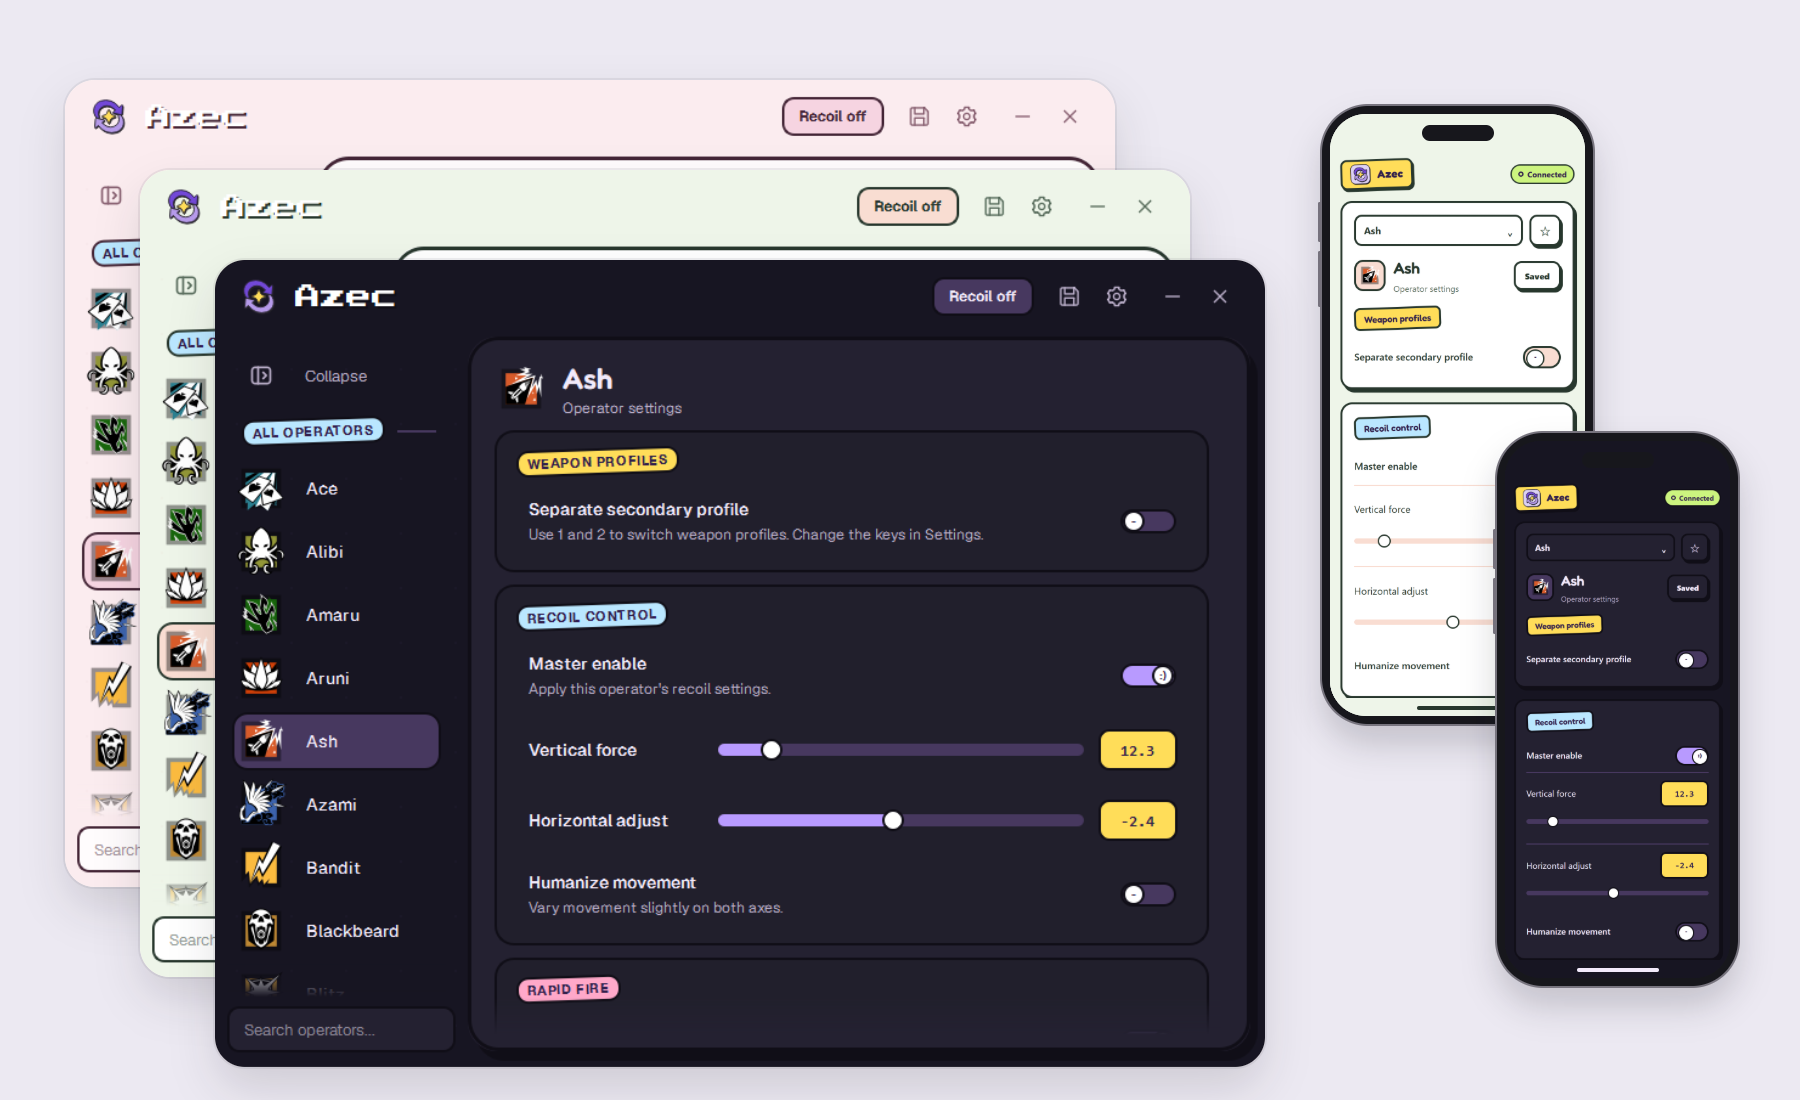
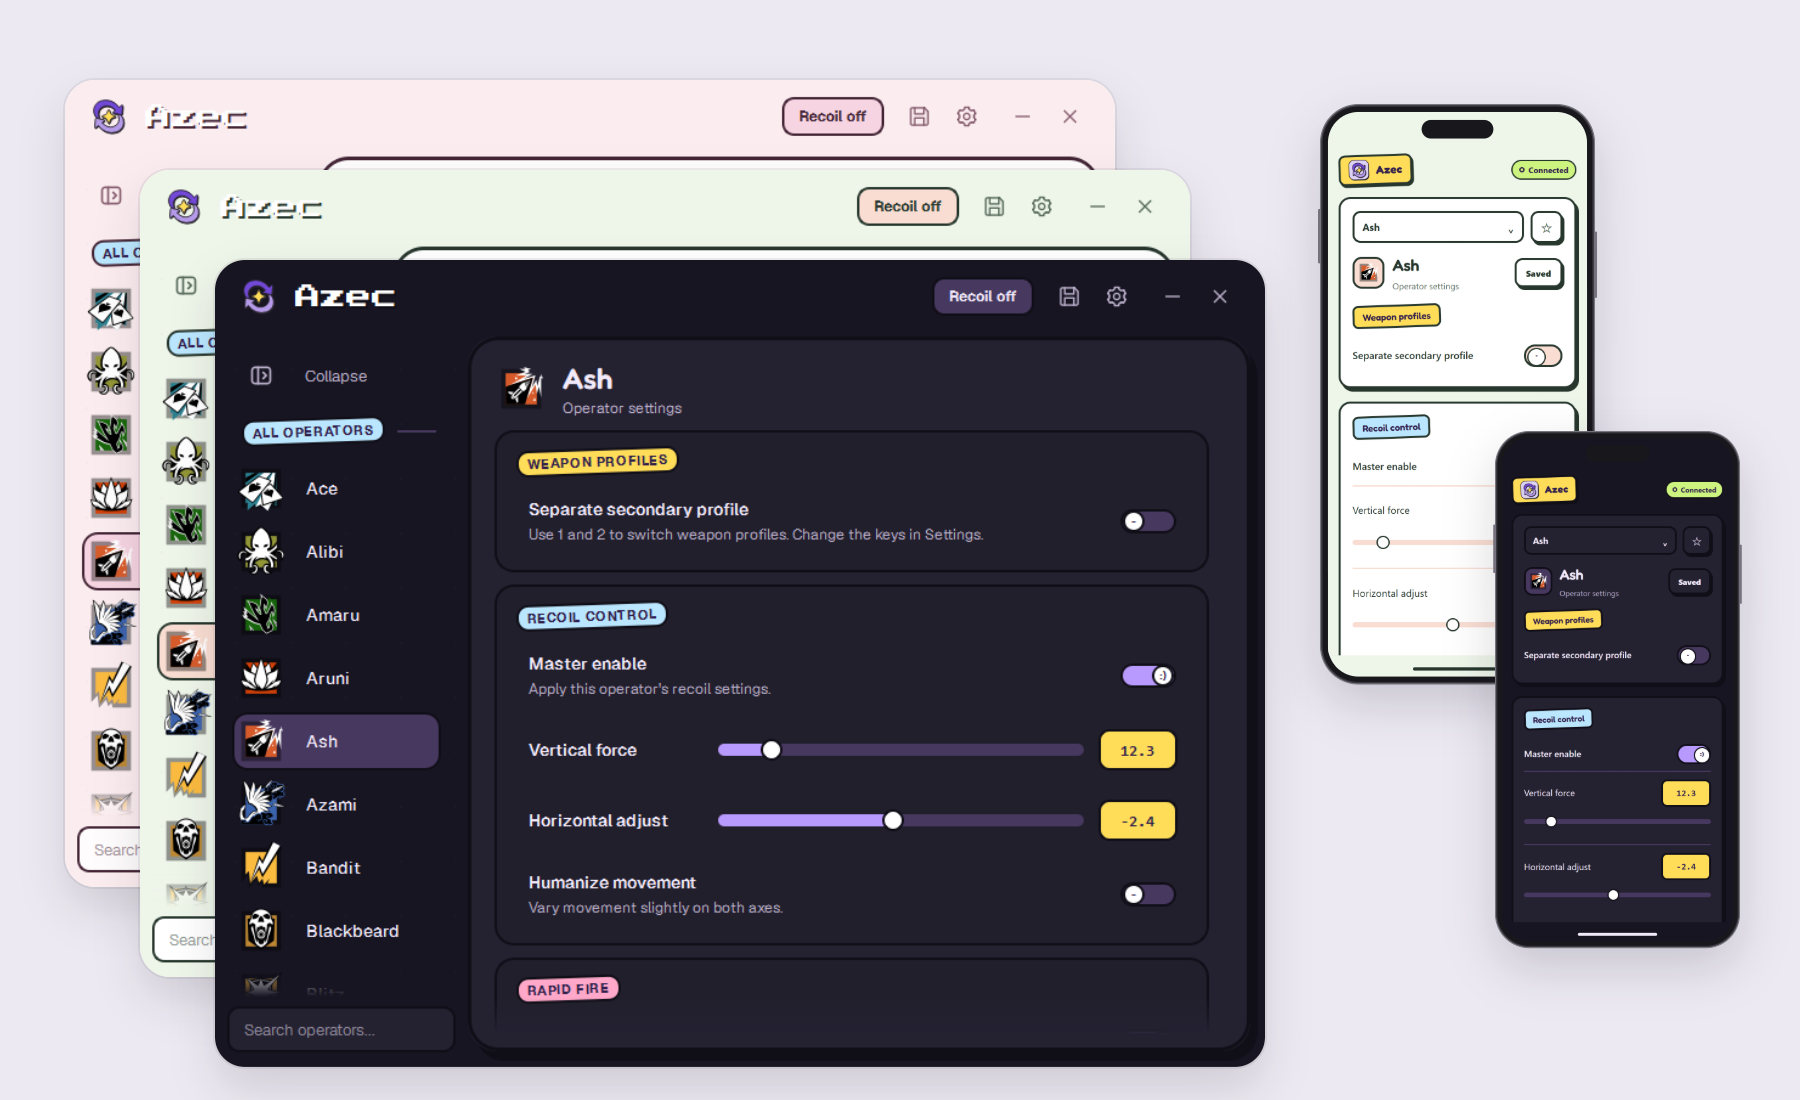
Correct phone proportions in README mockups

diff --git a/docs/showcase.html b/docs/showcase.html
@@ -1,3 +1,14 @@
 <!doctype html><html><head><meta charset="utf-8"><title>The original cascade</title><style>
 *{box-sizing:border-box}html,body{margin:0;background:transparent}.scene{width:1800px;height:1100px;position:relative;overflow:hidden;isolation:isolate;background:#F2EFE9}.desktop,.app,.phone{position:absolute}.desktop,.app{filter:drop-shadow(0 22px 22px #18131c22)}.bezel{padding:12px;background:#19191E;border:2px solid #58565D;border-radius:32px}.viewport{position:relative;overflow:hidden;background:#FFFAEE;border-radius:20px}.viewport img{position:absolute;inset:0;width:100%;height:100%;display:block}.stem{width:160px;height:55px;margin:0 auto;background:#B9B7BE;clip-path:polygon(34% 0,66% 0,90% 100%,10% 100%)}.foot{width:310px;height:12px;background:#AAA7B0;border-radius:10px;margin:auto;box-shadow:0 7px 12px #17131e14}.app{border-radius:30px;overflow:hidden;box-shadow:0 0 0 2px #39303D14}.app .viewport{border-radius:30px}.phone{padding:8px;border:2px solid #77747E;border-radius:48px;background:#17171C;box-shadow:0 20px 32px #0c09192b;transform-origin:center 70%}.phone:before,.phone:after{content:'';position:absolute;width:3px;border-radius:3px;background:#76727D;left:-4px;top:96px;height:40px}.phone:after{top:145px;height:56px}.display{padding:32px 0 18px;position:relative;border-radius:36px;overflow:hidden;background:#FFFAEE}.phone .viewport{border-radius:0}.island{position:absolute;top:11px;left:50%;transform:translateX(-50%);width:72px;height:16px;border-radius:12px;background:#17171C;z-index:30}.home{position:absolute;bottom:6px;left:50%;transform:translateX(-50%);width:82px;height:4px;background:#31204C;border-radius:4px;z-index:30}.orbit{position:absolute;border:2px solid #51495F45;border-radius:50%;width:980px;height:980px;left:1010px;top:80px;transform:rotate(-20deg)}.orbit.small{width:750px;height:750px;left:1125px;top:195px;border-color:#51495F25}.wall-card{position:absolute;width:548px;height:490px;border:1px solid #31204C16;border-radius:28px;overflow:hidden}.wall-card .desktop{filter:drop-shadow(0 12px 12px #18131c20)}.wall-card .bezel{padding:7px;border-radius:17px}.wall-card .viewport{border-radius:10px}.wall-card .stem{width:90px;height:31px}.wall-card .foot{width:160px;height:7px}.wall-card .phone{padding:4px;border-width:2px;border-radius:24px;box-shadow:0 12px 20px #14101e30}.wall-card .display{padding:18px 0 12px;border-radius:17px}.wall-card .island{top:6px;width:36px;height:8px}.wall-card .home{bottom:4px;width:40px;height:2px}.wall-card .phone:before,.wall-card .phone:after{display:none}
-</style></head><body><main class="scene" style="background:#ECE9F2"><div class="app" style="left:65px;top:80px;width:1050px;z-index:2"><div class="viewport" style="height:806.944px"><img src="showcase-assets/desktop/rose.png" alt="rose" style="clip-path:polygon(-30% 0%,130% 0%,130% 100%,-30% 100%)"></div></div><div class="app" style="left:140px;top:170px;width:1050px;z-index:3"><div class="viewport" style="height:806.944px"><img src="showcase-assets/desktop/pistachio.png" alt="pistachio" style="clip-path:polygon(-30% 0%,130% 0%,130% 100%,-30% 100%)"></div></div><div class="app" style="left:215px;top:260px;width:1050px;z-index:4"><div class="viewport" style="height:806.944px"><img src="showcase-assets/desktop/midnight.png" alt="midnight" style="clip-path:polygon(-30% 0%,130% 0%,130% 100%,-30% 100%)"></div></div><div class="phone" style="left:1320px;top:104px;width:275px;transform:rotate(0deg);z-index:5"><div class="display" style="height:601.846px;padding:0;background:#EEF5E9"><div style="position:absolute;inset:0;background:#EEF5E9;clip-path:polygon(-30% 0%,130% 0%,130% 100%,-30% 100%)"><img src="showcase-assets/phones/pistachio.png" alt="pistachio" style="position:absolute;left:0;top:32px;width:100%;height:551.846px"></div><div class="island"></div><div class="home" style="background:#27372D"></div></div></div><div class="phone" style="left:1495px;top:431px;width:245px;transform:rotate(0deg);z-index:6"><div class="display" style="height:536.923px;padding:0;background:#171522"><div style="position:absolute;inset:0;background:#171522;clip-path:polygon(-30% 0%,130% 0%,130% 100%,-30% 100%)"><img src="showcase-assets/phones/midnight.png" alt="midnight" style="position:absolute;left:0;top:32px;width:100%;height:486.923px"></div><div class="island"></div><div class="home" style="background:#F2EAFB"></div></div></div></main></body></html>
+
+.device-placement{position:absolute;filter:drop-shadow(0 20px 24px #0c091929)}
+.device{position:absolute;width:414px;height:874px;padding:10px;border:2px solid #77747E;border-radius:58px;background:#17171C;transform-origin:top left;box-shadow:inset 0 0 0 2px #38373D}
+.device-screen{position:relative;width:390px;height:850px;border-radius:46px;overflow:hidden}
+.device-content{position:absolute;left:0;right:0;top:44px;bottom:32px;overflow:hidden}
+.device-content img{display:block;width:390px;height:auto}
+.device-island{position:absolute;top:12px;left:50%;transform:translateX(-50%);width:108px;height:28px;border-radius:18px;background:#17171C}
+.device-home{position:absolute;bottom:9px;left:50%;transform:translateX(-50%);width:134px;height:5px;border-radius:5px}
+.device-volume,.device-power{position:absolute;display:block;width:4px;border-radius:3px;background:#76727D}
+.device-volume{left:-5px;top:156px;height:82px}
+.device-power{right:-5px;top:190px;height:100px}
+</style></head><body><main class="scene" style="background:#ECE9F2"><div class="app" style="left:65px;top:80px;width:1050px;z-index:2"><div class="viewport" style="height:806.944px"><img src="showcase-assets/desktop/rose.png" alt="rose" style="clip-path:polygon(-30% 0%,130% 0%,130% 100%,-30% 100%)"></div></div><div class="app" style="left:140px;top:170px;width:1050px;z-index:3"><div class="viewport" style="height:806.944px"><img src="showcase-assets/desktop/pistachio.png" alt="pistachio" style="clip-path:polygon(-30% 0%,130% 0%,130% 100%,-30% 100%)"></div></div><div class="app" style="left:215px;top:260px;width:1050px;z-index:4"><div class="viewport" style="height:806.944px"><img src="showcase-assets/desktop/midnight.png" alt="midnight" style="clip-path:polygon(-30% 0%,130% 0%,130% 100%,-30% 100%)"></div></div><div class="device-placement" style="left:1320px;top:104px;width:275px;height:580.555556px;z-index:5"><div class="device" style="transform:scale(0.664251208)"><div class="device-screen" style="background:#EEF5E9"><div class="device-content"><img src="showcase-assets/phones/pistachio.png" alt="pistachio"></div><div class="device-island"></div><div class="device-home" style="background:#27372D"></div></div><i class="device-volume"></i><i class="device-power"></i></div></div><div class="device-placement" style="left:1495px;top:431px;width:245px;height:517.222222px;z-index:6"><div class="device" style="transform:scale(0.591787440)"><div class="device-screen" style="background:#171522"><div class="device-content"><img src="showcase-assets/phones/midnight.png" alt="midnight"></div><div class="device-island"></div><div class="device-home" style="background:#F2EAFB"></div></div><i class="device-volume"></i><i class="device-power"></i></div></div></main></body></html>

diff --git a/docs/showcase-pastel.html b/docs/showcase-pastel.html
@@ -1,0 +1,14 @@
+<!doctype html><html><head><meta charset="utf-8"><title>Pastel cascade</title><style>
+*{box-sizing:border-box}html,body{margin:0;background:transparent}.scene{width:1800px;height:1100px;position:relative;overflow:hidden;isolation:isolate;background:#F2EFE9}.desktop,.app,.phone{position:absolute}.desktop,.app{filter:drop-shadow(0 22px 22px #18131c22)}.bezel{padding:12px;background:#19191E;border:2px solid #58565D;border-radius:32px}.viewport{position:relative;overflow:hidden;background:#FFFAEE;border-radius:20px}.viewport img{position:absolute;inset:0;width:100%;height:100%;display:block}.stem{width:160px;height:55px;margin:0 auto;background:#B9B7BE;clip-path:polygon(34% 0,66% 0,90% 100%,10% 100%)}.foot{width:310px;height:12px;background:#AAA7B0;border-radius:10px;margin:auto;box-shadow:0 7px 12px #17131e14}.app{border-radius:30px;overflow:hidden;box-shadow:0 0 0 2px #39303D14}.app .viewport{border-radius:30px}.phone{padding:8px;border:2px solid #77747E;border-radius:48px;background:#17171C;box-shadow:0 20px 32px #0c09192b;transform-origin:center 70%}.phone:before,.phone:after{content:'';position:absolute;width:3px;border-radius:3px;background:#76727D;left:-4px;top:96px;height:40px}.phone:after{top:145px;height:56px}.display{padding:32px 0 18px;position:relative;border-radius:36px;overflow:hidden;background:#FFFAEE}.phone .viewport{border-radius:0}.island{position:absolute;top:11px;left:50%;transform:translateX(-50%);width:72px;height:16px;border-radius:12px;background:#17171C;z-index:30}.home{position:absolute;bottom:6px;left:50%;transform:translateX(-50%);width:82px;height:4px;background:#31204C;border-radius:4px;z-index:30}.orbit{position:absolute;border:2px solid #51495F45;border-radius:50%;width:980px;height:980px;left:1010px;top:80px;transform:rotate(-20deg)}.orbit.small{width:750px;height:750px;left:1125px;top:195px;border-color:#51495F25}.wall-card{position:absolute;width:548px;height:490px;border:1px solid #31204C16;border-radius:28px;overflow:hidden}.wall-card .desktop{filter:drop-shadow(0 12px 12px #18131c20)}.wall-card .bezel{padding:7px;border-radius:17px}.wall-card .viewport{border-radius:10px}.wall-card .stem{width:90px;height:31px}.wall-card .foot{width:160px;height:7px}.wall-card .phone{padding:4px;border-width:2px;border-radius:24px;box-shadow:0 12px 20px #14101e30}.wall-card .display{padding:18px 0 12px;border-radius:17px}.wall-card .island{top:6px;width:36px;height:8px}.wall-card .home{bottom:4px;width:40px;height:2px}.wall-card .phone:before,.wall-card .phone:after{display:none}
+
+.device-placement{position:absolute;filter:drop-shadow(0 20px 24px #0c091929)}
+.device{position:absolute;width:414px;height:874px;padding:10px;border:2px solid #77747E;border-radius:58px;background:#17171C;transform-origin:top left;box-shadow:inset 0 0 0 2px #38373D}
+.device-screen{position:relative;width:390px;height:850px;border-radius:46px;overflow:hidden}
+.device-content{position:absolute;left:0;right:0;top:44px;bottom:32px;overflow:hidden}
+.device-content img{display:block;width:390px;height:auto}
+.device-island{position:absolute;top:12px;left:50%;transform:translateX(-50%);width:108px;height:28px;border-radius:18px;background:#17171C}
+.device-home{position:absolute;bottom:9px;left:50%;transform:translateX(-50%);width:134px;height:5px;border-radius:5px}
+.device-volume,.device-power{position:absolute;display:block;width:4px;border-radius:3px;background:#76727D}
+.device-volume{left:-5px;top:156px;height:82px}
+.device-power{right:-5px;top:190px;height:100px}
+</style></head><body><main class="scene" style="background:#F3F0E8"><div class="app" style="left:60px;top:70px;width:1035px;z-index:2"><div class="viewport" style="height:795.417px"><img src="showcase-assets/desktop/pistachio.png" alt="pistachio" style="clip-path:polygon(-30% 0%,130% 0%,130% 100%,-30% 100%)"></div></div><div class="app" style="left:135px;top:160px;width:1035px;z-index:3"><div class="viewport" style="height:795.417px"><img src="showcase-assets/desktop/ice-blue.png" alt="ice-blue" style="clip-path:polygon(-30% 0%,130% 0%,130% 100%,-30% 100%)"></div></div><div class="app" style="left:210px;top:250px;width:1035px;z-index:4"><div class="viewport" style="height:795.417px"><img src="showcase-assets/desktop/lilac.png" alt="lilac" style="clip-path:polygon(-30% 0%,130% 0%,130% 100%,-30% 100%)"></div></div><div class="device-placement" style="left:1305px;top:110px;width:275px;height:580.555556px;z-index:5"><div class="device" style="transform:scale(0.664251208)"><div class="device-screen" style="background:#EAF2FF"><div class="device-content"><img src="showcase-assets/phones/ice-blue.png" alt="ice-blue"></div><div class="device-island"></div><div class="device-home" style="background:#182D50"></div></div><i class="device-volume"></i><i class="device-power"></i></div></div><div class="device-placement" style="left:1495px;top:437px;width:245px;height:517.222222px;z-index:6"><div class="device" style="transform:scale(0.591787440)"><div class="device-screen" style="background:#EFE8FB"><div class="device-content"><img src="showcase-assets/phones/lilac.png" alt="lilac"></div><div class="device-island"></div><div class="device-home" style="background:#2C2046"></div></div><i class="device-volume"></i><i class="device-power"></i></div></div></main></body></html>
